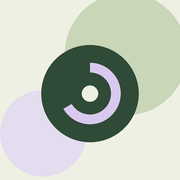
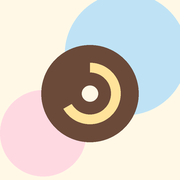
Pastel theme and per-page background pictures stored on device (v5)

diff --git a/index.html b/index.html
@@ -3,7 +3,7 @@
 <head>
 <meta charset="utf-8">
 <meta name="viewport" content="width=device-width, initial-scale=1, viewport-fit=cover">
-<meta name="theme-color" content="#eef0e4">
+<meta name="theme-color" content="#fff8e7">
 <meta name="apple-mobile-web-app-capable" content="yes">
 <meta name="apple-mobile-web-app-title" content="からだ帳">
 <meta name="robots" content="noindex, nofollow">
@@ -13,24 +13,33 @@
 <title>からだ帳</title>
 <link rel="preconnect" href="https://fonts.googleapis.com">
 <link rel="preconnect" href="https://fonts.gstatic.com" crossorigin>
-<link href="https://fonts.googleapis.com/css2?family=Urbanist:wght@400;600;700;800&family=Zen+Kaku+Gothic+New:wght@400;500;700&display=swap" rel="stylesheet">
+<link href="https://fonts.googleapis.com/css2?family=Nunito:wght@600;700;800&family=Zen+Maru+Gothic:wght@400;500;700&display=swap" rel="stylesheet">
 <style>
 :root{
-  --bg:#eef0e4; --ink:#2c3a2e; --deep:#2f4a36; --sub:#5c6f55; --mute:#8a9684;
-  --sage:#c9d6b8; --lilac:#e4dcef; --violet:#9b82c9; --pale:#d9c9f0; --leaf:#7c9a6a;
-  --glass:rgba(255,255,255,.72); --line:rgba(47,74,54,.16);
-  --num:"Urbanist","Zen Kaku Gothic New",sans-serif;
-  --body:"Zen Kaku Gothic New","Hiragino Kaku Gothic ProN","Yu Gothic UI","Meiryo",sans-serif;
+  --bg:#fff8e7; --ink:#5b4034; --deep:#6b4a3a; --sub:#8a6a58; --mute:#a89080;
+  --sage:#bfe3f5; --lilac:#ffd9e2; --violet:#f2708f; --pale:#ffe39a; --leaf:#9ccf8a;
+  --glass:rgba(255,255,255,.88); --line:rgba(107,74,58,.16);
+  --num:"Nunito","Zen Maru Gothic",sans-serif;
+  --body:"Zen Maru Gothic","Hiragino Kaku Gothic ProN","Yu Gothic UI","Meiryo",sans-serif;
 }
 *{box-sizing:border-box;margin:0;padding:0;-webkit-tap-highlight-color:transparent}
 html{background:var(--bg);overflow-x:hidden}
 body{font-family:var(--body);font-weight:500;color:var(--ink);font-size:16px;line-height:1.5;min-height:100dvh;max-width:520px;margin:0 auto;
   padding:0 20px calc(96px + env(safe-area-inset-bottom));position:relative}
-body::before,body::after{content:"";position:absolute;z-index:0;pointer-events:none}
-body::before{right:-70px;top:-60px;width:260px;height:260px;border-radius:46% 54% 60% 40%/50% 42% 58% 50%;background:var(--sage)}
-body::after{left:-80px;top:340px;width:200px;height:200px;border-radius:60% 40% 45% 55%/45% 55% 45% 55%;background:var(--lilac)}
 @media (max-width:560px){body{overflow-x:hidden}}
 header,main{position:relative;z-index:1}
+#bg{position:fixed;inset:0;z-index:0;background-repeat:repeat}
+#bg.bg-today{background-color:#fff1c2;background-image:radial-gradient(circle,#fff 0 7px,transparent 8px),radial-gradient(circle,#ffe08a 0 4px,transparent 5px);background-size:72px 72px;background-position:0 0,36px 36px}
+#bg.bg-graph{background-color:#cdeaf9;background-image:radial-gradient(circle,rgba(255,255,255,.9) 0 16px,transparent 17px),radial-gradient(circle,rgba(255,255,255,.9) 0 11px,transparent 12px);background-size:150px 120px;background-position:0 0,22px 6px}
+#bg.bg-hist{background-color:#dff1cf;background-image:radial-gradient(circle,#b9dda1 0 3px,transparent 4px),radial-gradient(circle,#fff 0 3px,transparent 4px);background-size:56px 56px;background-position:0 0,28px 28px}
+#bg.bg-set{background-color:#ffe4eb;background-image:radial-gradient(circle,#fff 0 6px,transparent 7px),radial-gradient(circle,#ffc2d1 0 4px,transparent 5px);background-size:72px 72px;background-position:0 0,36px 36px}
+#bg.has{background-size:cover;background-position:center;background-repeat:no-repeat}
+.bgrow{display:flex;align-items:center;gap:12px;padding:8px 0;border-top:1px solid var(--line)}
+.bgrow .th{flex:none;width:44px;height:60px;border-radius:12px;background:#fff center/cover no-repeat;border:2px dashed var(--mute)}
+.bgrow .th.on{border:2px solid var(--deep)}
+.bgrow span{flex:1;font-weight:700}
+.bgrow button{height:38px;padding:0 14px;border-radius:99px;background:var(--sage);font-size:13px;font-weight:700;color:var(--deep)}
+.bgrow button.x{background:transparent;color:var(--sub);padding:0 6px}
 button,input{font:inherit;color:inherit}
 button{cursor:pointer;border:none;background:none}
 li{list-style:none}
@@ -48,23 +57,23 @@ h2 em{font-style:normal;font-size:11px;font-weight:500;color:var(--sub);letter-s
 .pt{padding-top:calc(22px + env(safe-area-inset-top))}
 
 /* date */
-.datebar{display:flex;align-items:center;justify-content:space-between}
+.datebar{display:flex;align-items:center;justify-content:space-between;background:var(--glass);border-radius:99px;padding:6px 6px 6px 18px}
 .datebar .d{font-family:var(--num);font-weight:600;font-size:15px;letter-spacing:.12em;color:var(--sub)}
 .datebar .d i{font-style:normal;font-family:var(--body);font-weight:700;font-size:11px;letter-spacing:.06em;background:var(--deep);color:var(--bg);border-radius:99px;padding:2px 10px;margin-left:8px}
 .datebar .ar{display:flex;gap:8px}
-.datebar button{width:42px;height:42px;border-radius:50%;background:var(--glass);font-size:18px;color:var(--deep)}
+.datebar button{width:42px;height:42px;border-radius:50%;background:var(--sage);font-size:18px;color:var(--deep)}
 .datebar button:disabled{opacity:.35}
 
 /* weight hero */
 .hero{margin-top:18px}
 .numin{display:flex;align-items:baseline}
 .numin input{border:none;background:transparent;outline:none;font-family:var(--num);font-weight:700;color:var(--deep);letter-spacing:-.04em;line-height:1;font-size:98px;padding:0;border-radius:12px;min-width:0}
-.numin input::placeholder{color:rgba(47,74,54,.22)}
+.numin input::placeholder{color:rgba(107,74,58,.22)}
 .numin input:focus{background:rgba(255,255,255,.6)}
 .numin .u{font-family:var(--num);font-weight:600;font-size:22px;color:var(--sub);margin-left:6px}
-.delta{font-size:12px;color:var(--sub);margin-top:12px;min-height:22px;display:flex;flex-wrap:wrap;gap:2px 16px}
+.delta{font-size:12px;color:var(--sub);margin-top:8px;min-height:22px;display:flex;flex-wrap:wrap;gap:2px 16px}
 .delta b{font-family:var(--num);font-weight:700;font-size:16px;color:var(--deep)}
-#spark{margin:6px -20px 0;min-height:10px}
+#spark{margin:6px -18px 0;min-height:6px}
 svg{display:block;width:100%;height:auto}
 
 /* morning / night tiles */
@@ -106,7 +115,7 @@ svg{display:block;width:100%;height:auto}
 
 /* meals */
 .slots{display:flex;gap:6px;margin-bottom:10px}
-.slots button{flex:1;height:40px;border-radius:99px;font-size:13px;font-weight:700;color:var(--sub);background:rgba(47,74,54,.07)}
+.slots button{flex:1;height:40px;border-radius:99px;font-size:13px;font-weight:700;color:var(--sub);background:rgba(107,74,58,.07)}
 .slots button.on{background:var(--deep);color:var(--bg)}
 .add{display:grid;grid-template-columns:1fr 84px 46px;gap:6px}
 .add input{height:46px;border:1.5px solid transparent;border-radius:99px;padding:0 16px;background:#fff;min-width:0;outline:none}
@@ -140,11 +149,11 @@ svg text{font-family:var(--num);font-size:10px;font-weight:600;fill:var(--mute)}
 .legend i{display:inline-block;width:16px;height:0;border-top:2.5px solid;vertical-align:middle;margin-right:5px}
 .c-li{background:var(--lilac)}
 .c-dp{background:var(--deep);color:var(--bg)}
-.c-dp h2 em{color:rgba(238,240,228,.7)}
-.c-dp svg text{fill:rgba(238,240,228,.65)}
+.c-dp h2 em{color:rgba(255,248,231,.7)}
+.c-dp svg text{fill:rgba(255,248,231,.65)}
 
 /* history */
-.hist .hh{display:grid;grid-template-columns:58px 1fr 1fr 64px;gap:6px;padding:0 16px 0 10px;text-align:right;font-size:11px;font-weight:700;letter-spacing:.14em;color:var(--sub)}
+.hist .hh{display:grid;grid-template-columns:58px 1fr 1fr 64px;gap:6px;padding:6px 16px 6px 10px;background:var(--glass);border-radius:99px;text-align:right;font-size:11px;font-weight:700;letter-spacing:.14em;color:var(--sub)}
 .hist .c{display:block;line-height:1.25}
 .hist .c em{display:block;font-style:normal;font-family:var(--num);font-weight:600;font-size:12px;color:var(--sub)}
 .hist button{display:grid;grid-template-columns:58px 1fr 1fr 64px;align-items:center;width:100%;text-align:right;padding:10px 16px 10px 10px;background:var(--glass);border-radius:20px;margin-top:8px;gap:6px}
@@ -152,7 +161,7 @@ svg text{font-family:var(--num);font-size:10px;font-weight:600;fill:var(--mute)}
 .hist .dt small{font-family:var(--body);font-size:10px;font-weight:700;color:var(--sub)}
 .hist b{font-family:var(--num);font-weight:700;font-size:18px;color:var(--deep)}
 .hist b small{font-family:var(--body);font-size:10px;font-weight:500;color:var(--sub);margin-left:2px}
-.hist .no{color:#c3c9b8}
+.hist .no{color:#d9cbbf}
 
 /* settings */
 .field{margin-bottom:12px}
@@ -164,8 +173,8 @@ svg text{font-family:var(--num);font-size:10px;font-weight:600;fill:var(--mute)}
 .note{font-size:12px;color:var(--sub);line-height:1.7;padding:6px 6px 0}
 
 nav{position:fixed;left:0;right:0;bottom:calc(12px + env(safe-area-inset-bottom));z-index:5;display:flex;justify-content:center;pointer-events:none;padding:0 20px}
-nav div{pointer-events:auto;width:100%;max-width:480px;display:grid;grid-template-columns:repeat(4,1fr);background:#fff;border-radius:99px;padding:5px;box-shadow:0 10px 30px rgba(47,74,54,.18)}
-nav button{height:42px;border-radius:99px;font-size:13px;font-weight:700;color:var(--mute);transition:background .2s,color .2s}
+nav div{pointer-events:auto;width:100%;max-width:480px;display:grid;grid-template-columns:repeat(4,1fr);background:#fff;border-radius:99px;padding:5px;box-shadow:0 10px 30px rgba(107,74,58,.18)}
+nav button{height:42px;border-radius:99px;font-size:13px;font-weight:700;color:var(--sub);transition:background .2s,color .2s}
 nav button.on{background:var(--deep);color:var(--bg)}
 
 #toast{position:fixed;left:50%;bottom:calc(82px + env(safe-area-inset-bottom));transform:translate(-50%,20px);background:var(--deep);color:var(--bg);padding:9px 18px;border-radius:99px;font-size:13px;font-weight:700;opacity:0;pointer-events:none;transition:.25s;z-index:9;white-space:nowrap}
@@ -173,6 +182,7 @@ nav button.on{background:var(--deep);color:var(--bg)}
 </style>
 </head>
 <body>
+<div id="bg" class="bg-today"></div>
 <main>
   <section class="view on pt" id="v-today"></section>
   <section class="view pt" id="v-graph"></section>
@@ -184,7 +194,7 @@ nav button.on{background:var(--deep);color:var(--bg)}
   <button data-tab="today" class="on">記録</button>
   <button data-tab="graph">グラフ</button>
   <button data-tab="hist">履歴</button>
-  <button data-tab="set">目標</button>
+  <button data-tab="set">設定</button>
 </div></nav>
 <div id="toast"></div>
 
@@ -267,7 +277,7 @@ if(document.fonts&&document.fonts.ready)document.fonts.ready.then(()=>{if(typeof
 function ring(p){
   const c=2*Math.PI*25;
   return '<svg class="ring" viewBox="0 0 62 62" role="img" aria-label="達成率 '+Math.round(p*100)+'%"><circle cx="31" cy="31" r="25" fill="none" stroke="rgba(255,255,255,.2)" stroke-width="5"/>'+
-    '<circle cx="31" cy="31" r="25" fill="none" stroke="#d9c9f0" stroke-width="5" stroke-linecap="round" stroke-dasharray="'+(c*p).toFixed(1)+' '+c.toFixed(1)+'" transform="rotate(-90 31 31)"/>'+
+    '<circle cx="31" cy="31" r="25" fill="none" stroke="#ffe39a" stroke-width="5" stroke-linecap="round" stroke-dasharray="'+(c*p).toFixed(1)+' '+c.toFixed(1)+'" transform="rotate(-90 31 31)"/>'+
     '<text x="31" y="36" text-anchor="middle">'+Math.round(p*100)+'%</text></svg>';
 }
 function goalCard(){
@@ -298,9 +308,9 @@ function spark(){
   const W=340,H=76,T=10,B=22;
   const x0=pts[0].x,x1=pts[pts.length-1].x,ys=pts.map(p=>p.y),lo=Math.min.apply(null,ys),hi=Math.max.apply(null,ys),sp=Math.max(hi-lo,.4);
   const P=pts.map(p=>[(p.x-x0)/(x1-x0)*(W-26),T+(hi-p.y)/sp*(H-T-B)]),e=P[P.length-1];
-  return '<svg viewBox="0 0 '+W+' '+H+'" role="img" aria-label="直近30日の体重"><path d="'+smooth(P)+'" fill="none" stroke="#2f4a36" stroke-width="2" stroke-linecap="round"/>'+
-    '<line x1="0" x2="'+W+'" y1="'+(H-8)+'" y2="'+(H-8)+'" stroke="#8a9684" stroke-dasharray="2 5"/>'+
-    '<path d="M'+e[0]+' '+e[1]+' q6 -16 18 -18 q-2 12 -18 18Z" fill="#7c9a6a"/><circle cx="'+e[0]+'" cy="'+e[1]+'" r="5" fill="#9b82c9"/></svg>';
+  return '<svg viewBox="0 0 '+W+' '+H+'" role="img" aria-label="直近30日の体重"><path d="'+smooth(P)+'" fill="none" stroke="#6b4a3a" stroke-width="2" stroke-linecap="round"/>'+
+    '<line x1="0" x2="'+W+'" y1="'+(H-8)+'" y2="'+(H-8)+'" stroke="#a89080" stroke-dasharray="2 5"/>'+
+    '<path d="M'+e[0]+' '+e[1]+' q6 -16 18 -18 q-2 12 -18 18Z" fill="#9ccf8a"/><circle cx="'+e[0]+'" cy="'+e[1]+'" r="5" fill="#f2708f"/></svg>';
 }
 function candsHtml(q){
   q=(q||'').trim();
@@ -345,7 +355,7 @@ function renderToday(){
     '<div class="datebar"><div class="d">'+d.getFullYear()+'.'+(d.getMonth()+1)+'.'+d.getDate()+' '+WDE[d.getDay()]+(isToday?'<i>今日</i>':'')+'</div>'+
     '<div class="ar"><button data-shift="-1" aria-label="前の日">‹</button><button data-shift="1" aria-label="次の日"'+(isToday?' disabled':'')+'>›</button></div></div>'+
     '<div class="ampm">'+tile('am',SUN,'朝','w','f',x,'weight','fat')+tile('pm',MOON,'夜','wp','fp',x,'weightPm','fatPm')+'</div>'+
-    '<div><div class="delta" id="delta">'+deltaText()+'</div><div id="spark">'+spark()+'</div></div>'+
+    '<div class="card" style="padding:4px 18px 8px;overflow:hidden"><div class="delta" id="delta">'+deltaText()+'</div><div id="spark">'+spark()+'</div></div>'+
     '<div class="card kcrow" style="margin-top:6px"><span class="lab">摂取カロリー</span><div class="v" id="kc">'+kcalOf(x)+'<small>kcal</small></div></div>'+
     goalCard()+
     '<div class="card"><h2>食事</h2>'+
@@ -401,8 +411,8 @@ function lineChart(pts,o){
     const v=lo+(hi-lo)*(i+.5)/3, y=Y(v);
     s+='<line x1="'+L+'" x2="'+(W-R)+'" y1="'+y+'" y2="'+y+'" stroke="'+o.grid+'"/><text x="'+(W-R+6)+'" y="'+(y+3)+'">'+fmt1(v)+'</text>';
   }
-  if(o.goal!=null)s+='<line x1="'+L+'" x2="'+(W-R)+'" y1="'+Y(o.goal)+'" y2="'+Y(o.goal)+'" stroke="#9b82c9" stroke-width="2"/>';
-  if(pace)s+='<line x1="'+X(pace[0])+'" y1="'+Y(pace[1])+'" x2="'+X(pace[2])+'" y2="'+Y(pace[3])+'" stroke="#9b82c9" stroke-width="2" stroke-dasharray="2 6" stroke-linecap="round"/>';
+  if(o.goal!=null)s+='<line x1="'+L+'" x2="'+(W-R)+'" y1="'+Y(o.goal)+'" y2="'+Y(o.goal)+'" stroke="#f2708f" stroke-width="2"/>';
+  if(pace)s+='<line x1="'+X(pace[0])+'" y1="'+Y(pace[1])+'" x2="'+X(pace[2])+'" y2="'+Y(pace[3])+'" stroke="#f2708f" stroke-width="2" stroke-dasharray="2 6" stroke-linecap="round"/>';
   s+='<path d="'+path+' L'+last[0].toFixed(1)+' '+base+' L'+P[0][0].toFixed(1)+' '+base+' Z" fill="url(#'+o.id+')"/>';
   if(sec.length){
     const Q=sec.map(p=>[X(p.x),Y(p.y)]);
@@ -423,11 +433,11 @@ function barChart(){
   const top=Math.ceil(mx/500)*500, bw=(W-L-R)/N, bh=H-T-B;
   let s='<svg viewBox="0 0 '+W+' '+H+'" role="img" aria-label="直近14日の摂取カロリー">';
   [top/2,top].forEach(v=>{const y=T+(1-v/top)*bh;
-    s+='<line x1="'+L+'" x2="'+(W-R)+'" y1="'+y+'" y2="'+y+'" stroke="rgba(47,74,54,.14)"/><text x="'+(W-R+6)+'" y="'+(y+3)+'">'+v+'</text>';});
+    s+='<line x1="'+L+'" x2="'+(W-R)+'" y1="'+y+'" y2="'+y+'" stroke="rgba(107,74,58,.14)"/><text x="'+(W-R+6)+'" y="'+(y+3)+'">'+v+'</text>';});
   vs.forEach((v,i)=>{
     const w=bw-8, h=Math.max(v/top*bh,v?w:0), x=L+i*bw+4;
-    s+='<rect x="'+x.toFixed(1)+'" y="'+T+'" width="'+w.toFixed(1)+'" height="'+bh+'" rx="'+(w/2).toFixed(1)+'" fill="rgba(47,74,54,.07)"/>';
-    if(v)s+='<rect x="'+x.toFixed(1)+'" y="'+(H-B-h).toFixed(1)+'" width="'+w.toFixed(1)+'" height="'+h.toFixed(1)+'" rx="'+(w/2).toFixed(1)+'" fill="'+(i===N-1?'#9b82c9':'#2f4a36')+'"/>';
+    s+='<rect x="'+x.toFixed(1)+'" y="'+T+'" width="'+w.toFixed(1)+'" height="'+bh+'" rx="'+(w/2).toFixed(1)+'" fill="rgba(107,74,58,.07)"/>';
+    if(v)s+='<rect x="'+x.toFixed(1)+'" y="'+(H-B-h).toFixed(1)+'" width="'+w.toFixed(1)+'" height="'+h.toFixed(1)+'" rx="'+(w/2).toFixed(1)+'" fill="'+(i===N-1?'#f2708f':'#6b4a3a')+'"/>';
     if(i%3===1||i===N-1)s+='<text x="'+(x+w/2).toFixed(1)+'" y="'+(H-6)+'" text-anchor="middle">'+md(ds[i])+'</text>';
   });
   return s+'</svg>';
@@ -449,18 +459,18 @@ function renderGraph(){
     '<div class="seg">'+[[30,'30日'],[90,'90日'],[0,'すべて']].map(r=>'<button data-range="'+r[0]+'" class="'+(range===r[0]?'on':'')+'">'+r[1]+'</button>').join('')+'</div>'+
     '<div class="card"><div class="gh"><div><div class="lab">体　重</div><div class="v">'+(lastW?fmt1(lastW.y):'–')+'<small>kg</small></div></div>'+
       (all.length>1?'<span class="pill">開始から '+tot+' kg</span>':'')+'</div>'+
-      lineChart(w,{id:'gw',color:'#2f4a36',fill:'#7c9a6a',fillOp:.35,dot:'#9b82c9',dotRing:'#ffffff',grid:'rgba(47,74,54,.12)',goal:g,pace:pace,second:wPm,secondColor:'#8a9684',label:'体重の推移',empty:'体重を記録すると、ここにグラフが出ます'})+
-      (w.length?'<div class="legend"><span><i style="border-color:#2f4a36"></i>朝（基準）</span>'+(wPm.length?'<span><i style="border-color:#8a9684;border-top-width:1.6px"></i>夜</span>':'')+(g!=null?'<span><i style="border-color:#9b82c9"></i>目標 '+fmt1(g)+' kg</span>':'')+(pace?'<span><i style="border-color:#9b82c9;border-top-style:dotted"></i>期日までの目安</span>':'')+'</div>':'')+'</div>'+
+      lineChart(w,{id:'gw',color:'#6b4a3a',fill:'#9ccf8a',fillOp:.35,dot:'#f2708f',dotRing:'#ffffff',grid:'rgba(107,74,58,.12)',goal:g,pace:pace,second:wPm,secondColor:'#a89080',label:'体重の推移',empty:'体重を記録すると、ここにグラフが出ます'})+
+      (w.length?'<div class="legend"><span><i style="border-color:#6b4a3a"></i>朝（基準）</span>'+(wPm.length?'<span><i style="border-color:#a89080;border-top-width:1.6px"></i>夜</span>':'')+(g!=null?'<span><i style="border-color:#f2708f"></i>目標 '+fmt1(g)+' kg</span>':'')+(pace?'<span><i style="border-color:#f2708f;border-top-style:dotted"></i>期日までの目安</span>':'')+'</div>':'')+'</div>'+
     '<div class="two" style="grid-template-columns:repeat(3,1fr);margin-top:12px"><div class="arch"><span>週平均体重</span><div class="v" style="font-size:24px">'+avg+'<small>kg</small></div></div><div class="arch"><span>体脂肪率</span><div class="v" style="font-size:24px">'+(lastF?fmt1(lastF.y):'–')+'<small>%</small></div></div><div class="arch"><span>週平均摂取</span><div class="v" style="font-size:24px">'+kavg+'<small>kcal</small></div></div></div>'+
-    '<div class="card c-dp"><h2>体脂肪率<em>%</em></h2>'+lineChart(f,{id:'gf',color:'#d9c9f0',fill:'#d9c9f0',fillOp:.3,dot:'#d9c9f0',dotRing:'#2f4a36',grid:'rgba(255,255,255,.14)',second:fPm,secondColor:'rgba(238,240,228,.55)',label:'体脂肪率の推移',emptyColor:'rgba(238,240,228,.75)',empty:'体脂肪率を記録すると、ここにグラフが出ます'})+
-      (fPm.length?'<div class="legend" style="color:rgba(238,240,228,.8)"><span><i style="border-color:#d9c9f0"></i>朝（基準）</span><span><i style="border-color:rgba(238,240,228,.55);border-top-width:1.6px"></i>夜</span></div>':'')+'</div>'+
+    '<div class="card c-dp"><h2>体脂肪率<em>%</em></h2>'+lineChart(f,{id:'gf',color:'#ffe39a',fill:'#ffe39a',fillOp:.3,dot:'#ffe39a',dotRing:'#6b4a3a',grid:'rgba(255,255,255,.14)',second:fPm,secondColor:'rgba(255,248,231,.55)',label:'体脂肪率の推移',emptyColor:'rgba(255,248,231,.75)',empty:'体脂肪率を記録すると、ここにグラフが出ます'})+
+      (fPm.length?'<div class="legend" style="color:rgba(255,248,231,.8)"><span><i style="border-color:#ffe39a"></i>朝（基準）</span><span><i style="border-color:rgba(255,248,231,.55);border-top-width:1.6px"></i>夜</span></div>':'')+'</div>'+
     '<div class="card c-li"><h2>摂取カロリー<em>直近14日・kcal</em></h2>'+barChart()+'</div>';
 }
 
 // ---------- history ----------
 function renderHist(){
   const ds=Object.keys(db.days).sort().reverse();
-  $('#v-hist').innerHTML='<h2 style="margin:4px 2px 4px">履歴<em>'+ds.length+'日分・タップで開く</em></h2>'+
+  $('#v-hist').innerHTML='<h2 class="card" style="margin:0 0 8px;padding:12px 20px;border-radius:99px">履歴<em>'+ds.length+'日分・タップで開く</em></h2>'+
     (ds.length?'<div class="hist"><div class="hh"><span></span><span>朝</span><span>夜</span><span>摂取</span></div>'+ds.map(d=>{
       const x=db.days[d], k=kcalOf(x), dt=parse(d);
       const cell=(w,f)=>'<span class="c">'+(w!=null?'<b>'+fmt1(w)+'<small>kg</small></b>':'<b class="no">–</b>')+(f!=null?'<em>'+fmt1(f)+'%</em>':'')+'</span>';
@@ -468,6 +478,60 @@ function renderHist(){
         cell(x.weight,x.fat)+cell(x.weightPm,x.fatPm)+
         (k?'<span class="c"><b>'+k+'</b><em>kcal</em></span>':'<b class="no">–</b>')+'</button>';
     }).join('')+'</div>':'<div class="card"><p class="empty" style="padding:14px 0">まだ記録がありません</p></div>');
+}
+
+// ---------- background pictures (kept on this device only, in IndexedDB; never uploaded) ----------
+const PAGES=[['today','記録'],['graph','グラフ'],['hist','履歴'],['set','設定']];
+const BG={};let bgTarget=null;
+function idb(){
+  return new Promise((res,rej)=>{
+    const r=indexedDB.open('karadacho',1);
+    r.onupgradeneeded=()=>r.result.createObjectStore('bg');
+    r.onsuccess=()=>res(r.result);r.onerror=()=>rej(r.error);
+  });
+}
+function idbDo(mode,fn){
+  return idb().then(d=>new Promise((res,rej)=>{
+    const tx=d.transaction('bg',mode), q=fn(tx.objectStore('bg'));
+    tx.oncomplete=()=>{d.close();res(q.result);};
+    tx.onerror=tx.onabort=()=>{d.close();rej(tx.error);};
+  }));
+}
+function setBg(k,blob){
+  if(BG[k])URL.revokeObjectURL(BG[k]);
+  if(blob)BG[k]=URL.createObjectURL(blob);else delete BG[k];
+}
+function applyBg(){
+  const el=$('#bg');
+  el.className='bg-'+tab+(BG[tab]?' has':'');
+  el.style.backgroundImage=BG[tab]?'url("'+BG[tab]+'")':'';
+}
+function loadBgs(){
+  return Promise.all(PAGES.map(p=>idbDo('readonly',st=>st.get(p[0])).then(b=>{if(b)setBg(p[0],b);})))
+    .then(()=>{applyBg();if(tab==='set')renderSet();}).catch(()=>{});
+}
+function shrink(file){
+  return new Promise((res,rej)=>{
+    const u=URL.createObjectURL(file), im=new Image();
+    im.onload=()=>{
+      const k=Math.min(1,1600/Math.max(im.naturalWidth,im.naturalHeight)), c=document.createElement('canvas');
+      c.width=Math.round(im.naturalWidth*k);c.height=Math.round(im.naturalHeight*k);
+      c.getContext('2d').drawImage(im,0,0,c.width,c.height);
+      URL.revokeObjectURL(u);
+      c.toBlob(b=>b?res(b):rej(new Error('blob')),'image/jpeg',.86);
+    };
+    im.onerror=()=>{URL.revokeObjectURL(u);rej(new Error('image'));};
+    im.src=u;
+  });
+}
+function bgCard(){
+  return '<div class="card"><h2>背景画像<em>ページごとに1枚</em></h2>'+PAGES.map(p=>{
+    const u=BG[p[0]];
+    return '<div class="bgrow"><div class="th'+(u?' on':'')+'"'+(u?' style="background-image:url(&quot;'+u+'&quot;)"':'')+'></div><span>'+p[1]+'</span>'+
+      '<button data-bgpick="'+p[0]+'">'+(u?'変える':'選ぶ')+'</button>'+
+      (u?'<button class="x" data-bgdel="'+p[0]+'" aria-label="'+p[1]+'の背景を消す">消す</button>':'')+'</div>';
+  }).join('')+'<input type="file" id="bf" accept="image/*" hidden>'+
+  '<p class="note">選んだ画像はこの端末の中だけに保存され、ネットには送られません。バックアップには含まれないので、機種変更のときは選び直してください。</p></div>';
 }
 
 // ---------- settings ----------
@@ -478,6 +542,7 @@ function renderSet(){
       '<div class="field"><label for="gw">目標体重（kg）</label><input id="gw" inputmode="decimal" placeholder="例 62.0" value="'+(s.goalWeight!=null?s.goalWeight:'')+'"></div>'+
       '<div class="field"><label for="gd">いつまでに</label><input id="gd" type="date" value="'+(s.goalDate||'')+'"></div>'+
       '<button class="btn p" id="gs">目標を保存</button></div>'+
+    bgCard()+
     '<div class="card c-li"><h2>データ</h2>'+
       '<button class="btn" id="csv">CSVで書き出す（Excel用）</button>'+
       '<button class="btn" id="bk">バックアップを保存</button>'+
@@ -506,7 +571,7 @@ function show(t){
   tab=t;
   document.querySelectorAll('.view').forEach(v=>v.classList.toggle('on',v.id==='v-'+t));
   document.querySelectorAll('nav button').forEach(b=>b.classList.toggle('on',b.dataset.tab===t));
-  R[t]();window.scrollTo(0,0);
+  R[t]();applyBg();window.scrollTo(0,0);
 }
 document.addEventListener('click',e=>{
   const b=e.target.closest('button,a');if(!b)return;
@@ -517,6 +582,13 @@ document.addEventListener('click',e=>{
   if(ds.slot){slot=ds.slot;document.querySelectorAll('.slots button').forEach(x=>x.classList.toggle('on',x.dataset.slot===slot));return;}
   if(ds.food){const f=db.foods[ds.food];if(f)addMeal(ds.food,f.kcal);return;}
   if(ds.del){const x=db.days[cur];if(x){x.meals=x.meals.filter(m=>m.id!==ds.del);tidy(cur);save();refresh();}return;}
+  if(ds.bgpick){bgTarget=ds.bgpick;return $('#bf').click();}
+  if(ds.bgdel){
+    const k=ds.bgdel;
+    if(!confirm('このページの背景画像を消します。よろしいですか？'))return;
+    idbDo('readwrite',st=>st.delete(k)).then(()=>{setBg(k,null);applyBg();renderSet();toast('背景を消しました');}).catch(()=>toast('消せませんでした'));
+    return;
+  }
   if(ds.range!=null){range=+ds.range;return renderGraph();}
   if(ds.open){cur=ds.open;return show('today');}
   if(b.id==='ma'){addMeal($('#mn').value,parseFloat($('#mk').value));return;}
@@ -534,6 +606,11 @@ document.addEventListener('click',e=>{
 document.addEventListener('change',e=>{
   const t=e.target;
   if(FIELDS[t.id]){const F=FIELDS[t.id];numIn(t,F[0],F[1],F[2],F[3]);refresh();}
+  if(t.id==='bf'&&t.files[0]&&bgTarget){
+    const k=bgTarget, file=t.files[0];t.value='';
+    shrink(file).then(b=>idbDo('readwrite',st=>st.put(b,k)).then(()=>{setBg(k,b);applyBg();renderSet();toast('背景を設定しました');}))
+      .catch(()=>toast('この画像は設定できませんでした'));
+  }
   if(t.id==='rf'&&t.files[0]){
     const fr=new FileReader();
     fr.onload=()=>{
@@ -557,6 +634,7 @@ document.addEventListener('keydown',e=>{
   else if(FIELDS[e.target.id])e.target.blur();
 });
 
+loadBgs();
 show('today');
 })();
 </script>

diff --git a/sw.js b/sw.js
@@ -1,4 +1,4 @@
-const CACHE = 'karadacho-v4';
+const CACHE = 'karadacho-v5';
 self.addEventListener('install', e => { self.skipWaiting(); });
 self.addEventListener('activate', e => {
   e.waitUntil(caches.keys().then(ks => Promise.all(ks.filter(k => k !== CACHE).map(k => caches.delete(k)))).then(() => self.clients.claim()));
